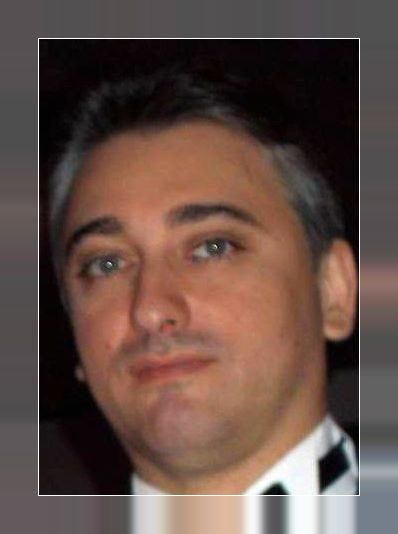
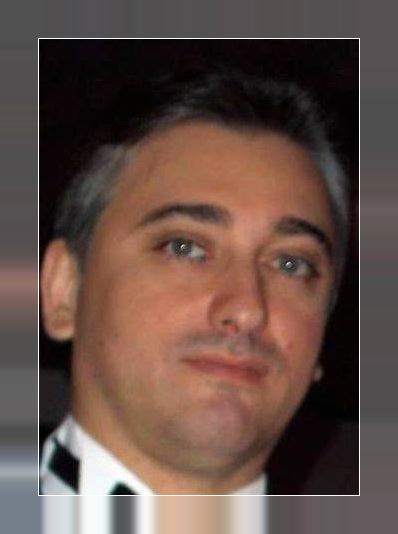
update pic

diff --git a/_sass/_base.scss b/_sass/_base.scss
@@ -76,8 +76,10 @@ p {
         max-width: 100px;
         margin-bottom: 15px;
         border: 0px solid #fff;
-        border-radius: 100%;
+        border-radius: 10%;
         box-shadow: 0 1px 1px rgba(0, 0, 0, 0.1);
+        -webkit-transform: scaleX(-1);
+        transform: scaleX(-1);
     }
     .contact-list {
         .fas, .fab, .far {
